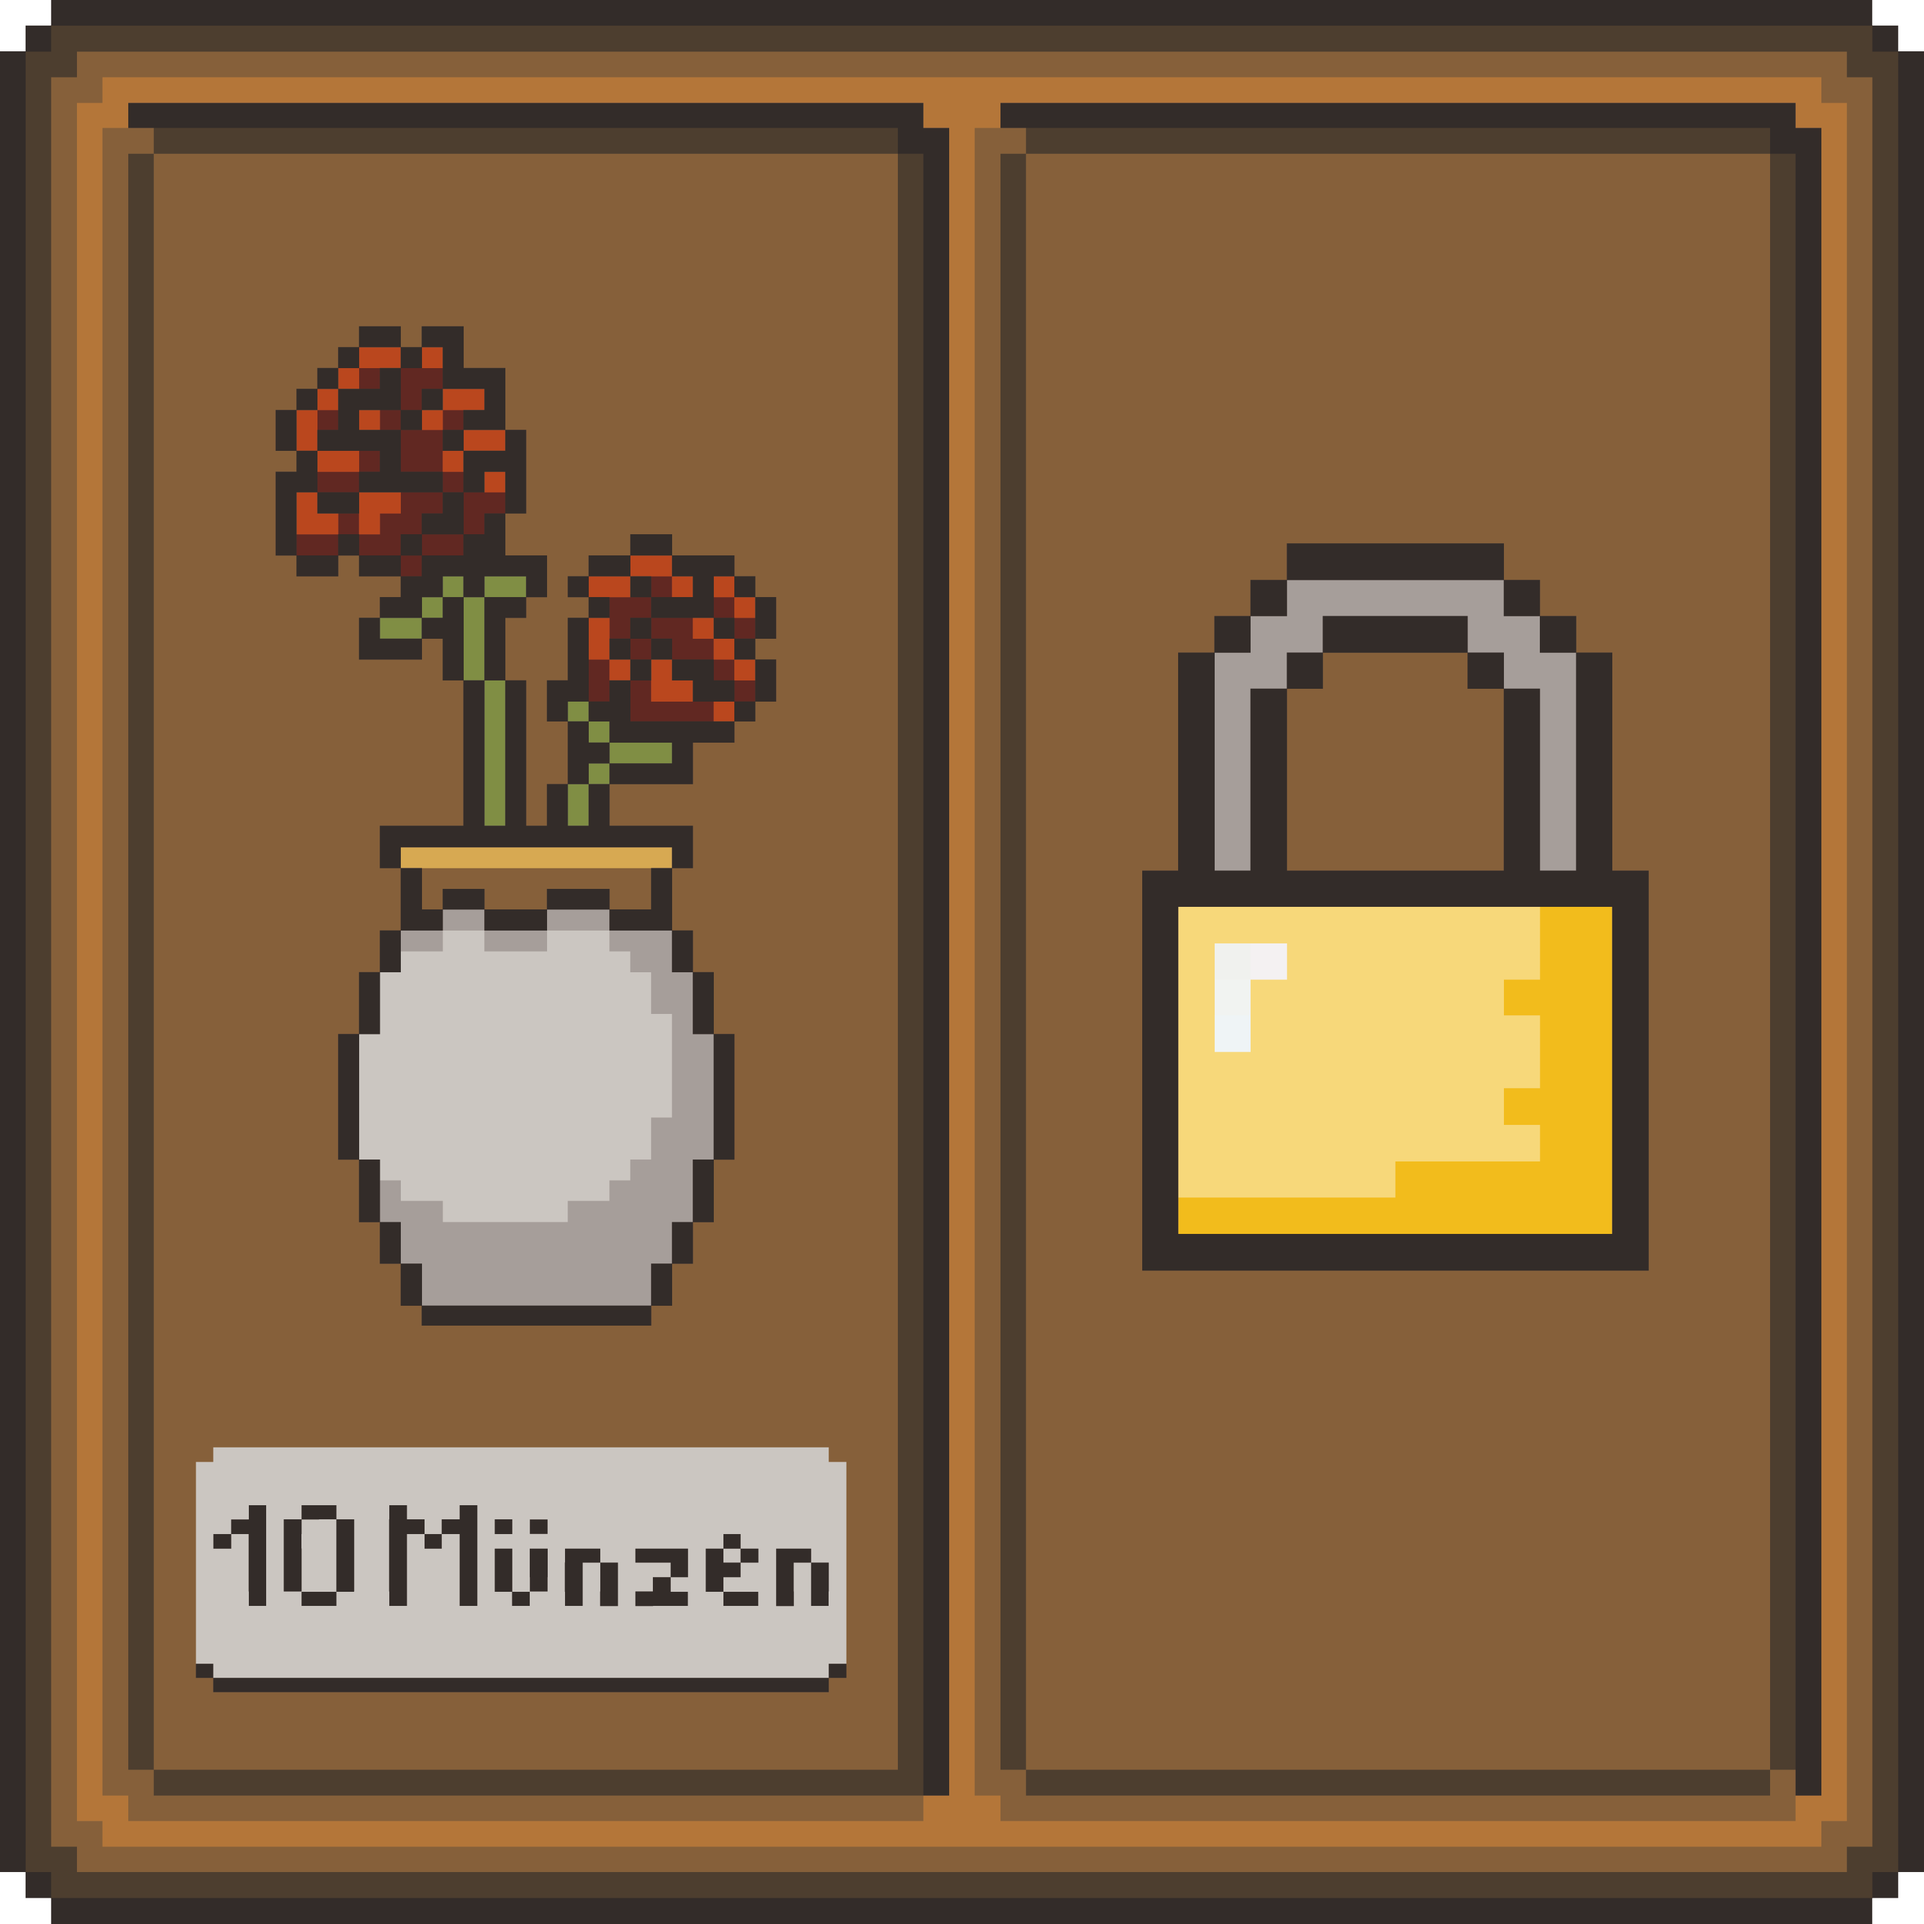
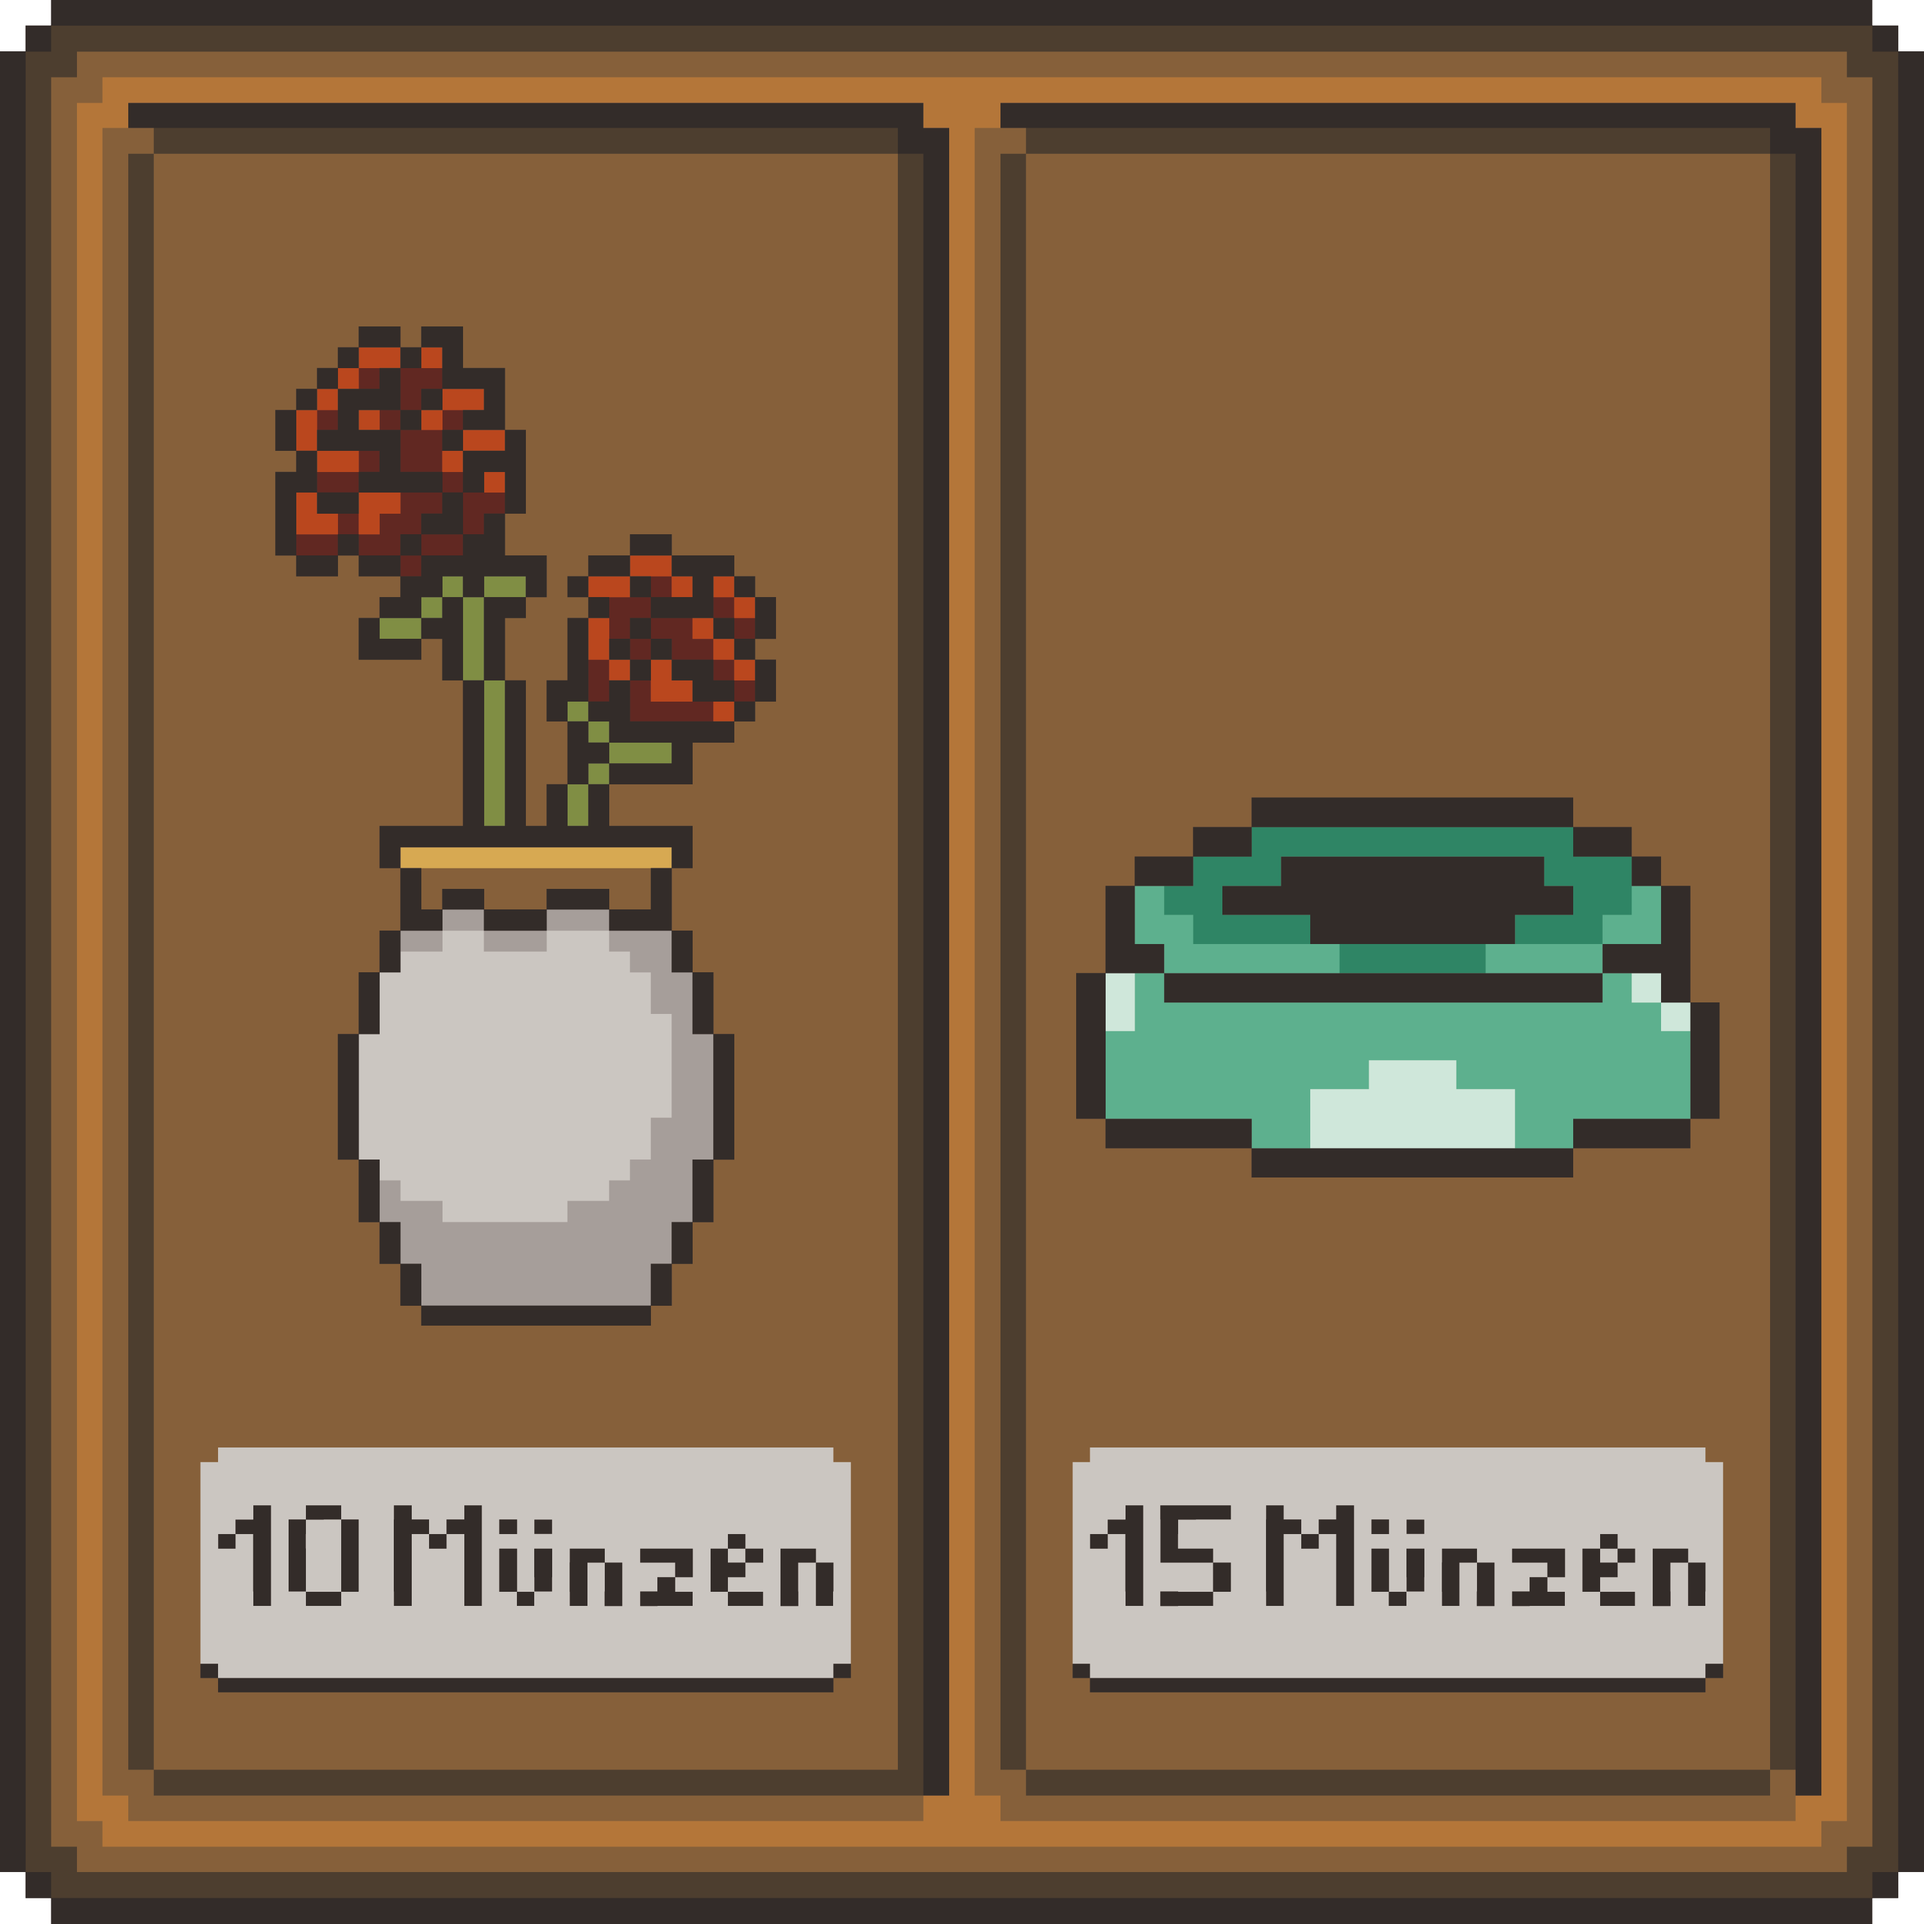
2 objekte im shop

Changed region(s): [[0.558, 0.279, 0.899, 0.682], [0.558, 0.744, 0.899, 0.899], [0.093, 0.775, 0.434, 0.837]]

diff --git a/Shopgame.js b/Shopgame.js
@@ -8,6 +8,8 @@ export default class Shopgame extends Phaser.Scene {
         this.load.image('verdunklung', 'Komponenten/verdunklung.png');
         this.load.image('shopBild', 'Komponenten/shopBild.png');
         this.load.image('shopBildOffen', 'Komponenten/shopBildOffen.png');
+        this.load.image('shopBildOffenVase', 'Komponenten/shopBildOffenVase.png');
+        this.load.image('shopBildOffenNapf', 'Komponenten/shopBildOffenNapf.png');
     }
 
     init(data) {
@@ -21,36 +23,60 @@ export default class Shopgame extends Phaser.Scene {
         const centerX = window.innerWidth / 2 - 400 * scale;
         const centerY = window.innerHeight / 2 - 400 * scale;
 
-        // Create a clickable rectangle
-        const rectX = centerX + 50 * scale; // X position of the rectangle
-        const rectY = centerY + 550 * scale; // Y position of the rectangle
-        const rectWidth = 300 * scale; // Width of the rectangle
-        const rectHeight = 120 * scale; // Height of the rectangle
+        const rectWidth = 300 * scale;
+        const rectHeight = 120 * scale;
+        const rectY = centerY + 550 * scale;
+        const rectX1 = centerX + 50 * scale;
+        const rectX2 = rectX1 + 350 * scale;
 
         this.add.image(0, 0, 'verdunklung').setScale(50, 50).setOrigin(0);
 
-        if (freigeschaltet) {
+        if (vaseFreigeschaltet && napfFreigeschaltet) {
             this.add.image(centerX, centerY, 'shopBild').setScale(0.3 * scale, 0.3 * scale).setOrigin(0);
+        } else if (vaseFreigeschaltet) {
+            this.add.image(centerX, centerY, 'shopBildOffenNapf').setScale(0.25 * scale, 0.25 * scale).setOrigin(0);
+
+            let rectangle2 = this.add.rectangle(rectX2, rectY, rectWidth, rectHeight, 0xffffff, 0).setOrigin(0).setInteractive();
+            rectangle2.on('pointerdown', this.onRectangle2Click, this);
+
+        } else if (napfFreigeschaltet) {
+            this.add.image(centerX, centerY, 'shopBildOffenVase').setScale(0.25 * scale, 0.25 * scale).setOrigin(0);
+
+            let rectangle1 = this.add.rectangle(rectX1, rectY, rectWidth, rectHeight, 0xffffff, 0).setOrigin(0).setInteractive();
+            rectangle1.on('pointerdown', this.onRectangle1Click, this);
+
         } else {
             this.add.image(centerX, centerY, 'shopBildOffen').setScale(0.25 * scale, 0.25 * scale).setOrigin(0);
 
-            let rectangle = this.add.rectangle(rectX, rectY, rectWidth, rectHeight, 0xffffff, 0).setOrigin(0).setInteractive();
-            // Add a click event listener to the rectangle
-            rectangle.on('pointerdown', this.onRectangleClick, this);
+            let rectangle1 = this.add.rectangle(rectX1, rectY, rectWidth, rectHeight, 0xffffff, 0).setOrigin(0).setInteractive();
+            rectangle1.on('pointerdown', this.onRectangle1Click, this);
+
+            let rectangle2 = this.add.rectangle(rectX2, rectY, rectWidth, rectHeight, 0xffffff, 0).setOrigin(0).setInteractive();
+            rectangle2.on('pointerdown', this.onRectangle2Click, this);
         }
 
         this.input.keyboard.on('keydown-SPACE', this.beendeShop, this);
     }
-    onRectangleClick() {
+    onRectangle1Click() {
         console.log(this.totalCoins);
-        if (this.totalCoins >= 10){
+        if (this.totalCoins >= 10) {
             this.scene.get('MainScene').reduceCoins(10);
-            freigeschaltet = true;
+            this.totalCoins -= 10;
+            vaseFreigeschaltet = true;
+        }
+    }
+
+    onRectangle2Click() {
+        console.log(this.totalCoins);
+        if (this.totalCoins >= 15) {
+            this.scene.get('MainScene').reduceCoins(15);
+            this.totalCoins -= 15;
+            napfFreigeschaltet = true;
         }
     }
 
      beendeShop() {
          this.scene.stop('Shopgame');
-         this.scene.resume('MainScene', { collectedCoins: -10 });
+         this.scene.resume('MainScene');
     }
 }

diff --git a/MainScene.js b/MainScene.js
@@ -33,15 +33,12 @@ export default class MainScene extends Phaser.Scene {
         this.load.svg('drache_unten', 'Komponenten/Drache_rechts_unten.svg');
         this.load.svg('tisch', 'Komponenten/tisch.svg');
         this.load.image('blumenvase', 'Komponenten/blumenvase.png');
+        this.load.image('napf', 'Komponenten/napf.png');
         this.load.audio('backgroundMusic', 'audio/cozy-homey-relaxing-music.mp3');
     }
 
     create(data) {
         scene = this;
-
-        if (data && data.collectedCoins) {
-            this.totalCoins += data.collectedCoins;
-        }
 
         // Create and play the background music
         this.backgroundMusic = this.sound.add('backgroundMusic', { volume: 1, loop: true });
@@ -80,6 +77,9 @@ export default class MainScene extends Phaser.Scene {
 
         //Blumenvase
         blumenvase = this.add.image(2860 * scale + this.backgroundX, 595 * scale, 'blumenvase').setOrigin(0).setScale(0.07 * scale, 0.07 * scale).setVisible(false);
+
+        //Napf
+        napf = this.add.image(3905 * scale + this.backgroundX, 800 * scale, 'napf').setOrigin(0).setScale(0.095 * scale, 0.095 * scale).setVisible(false);
 
         cursors = this.input.keyboard.createCursorKeys();
 
@@ -158,7 +158,7 @@ export default class MainScene extends Phaser.Scene {
         updatePfeilPositions();
         checkPfeilProximity();
         handleInput();
-        checkBlumenvase();
+        checkBlumenvaseUndNapf();
     }
 
     // Flügelanimation des Drachen

diff --git a/helper.js b/helper.js
@@ -20,8 +20,10 @@ let pfeil1, pfeil2, pfeil3, pfeil4, pfeil5, pfeil6;
 let thermometer;
 let tisch;
 let blumenvase;
+let napf;
 let selectedObject = null;
-let freigeschaltet = false;
+let vaseFreigeschaltet = false;
+let napfFreigeschaltet = false;
 
 const xDistanceThreshold = 200; // Distanzschwelle für die Auswahl der Pfeile nach x-Koordinate
 
@@ -84,11 +86,16 @@ function checkSinglePfeilProximity(pfeil, pfeilName) {
     }
 }
 
-function checkBlumenvase() {
-    if (freigeschaltet) {
+function checkBlumenvaseUndNapf() {
+    if (vaseFreigeschaltet) {
         blumenvase.setVisible(true);
     } else {
         blumenvase.setVisible(false);
+    }
+    if (napfFreigeschaltet) {
+        napf.setVisible(true);
+    } else {
+        napf.setVisible(false);
     }
 }
 
@@ -123,6 +130,7 @@ function moveLeft() {
             pfeil6.x += backgroundSpeed;
             tisch.x += backgroundSpeed;
             blumenvase.x += backgroundSpeed;
+            napf.x += backgroundSpeed;
         } else {
             backgroundAtEdge = true;
         }
@@ -147,6 +155,7 @@ function moveRight() {
             pfeil6.x -= backgroundSpeed;
             tisch.x -= backgroundSpeed;
             blumenvase.x -= backgroundSpeed;
+            napf.x -= backgroundSpeed;
         } else {
             backgroundAtEdge = true;
         }
